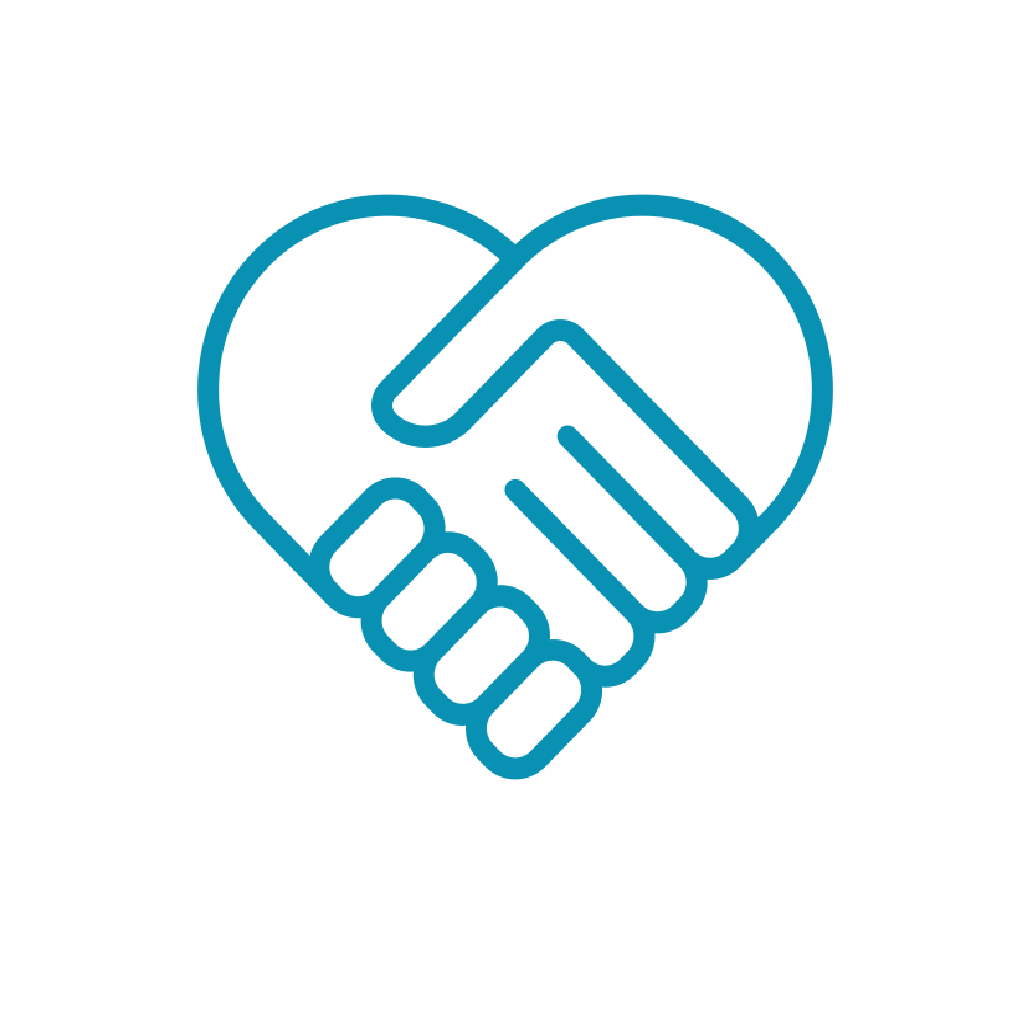
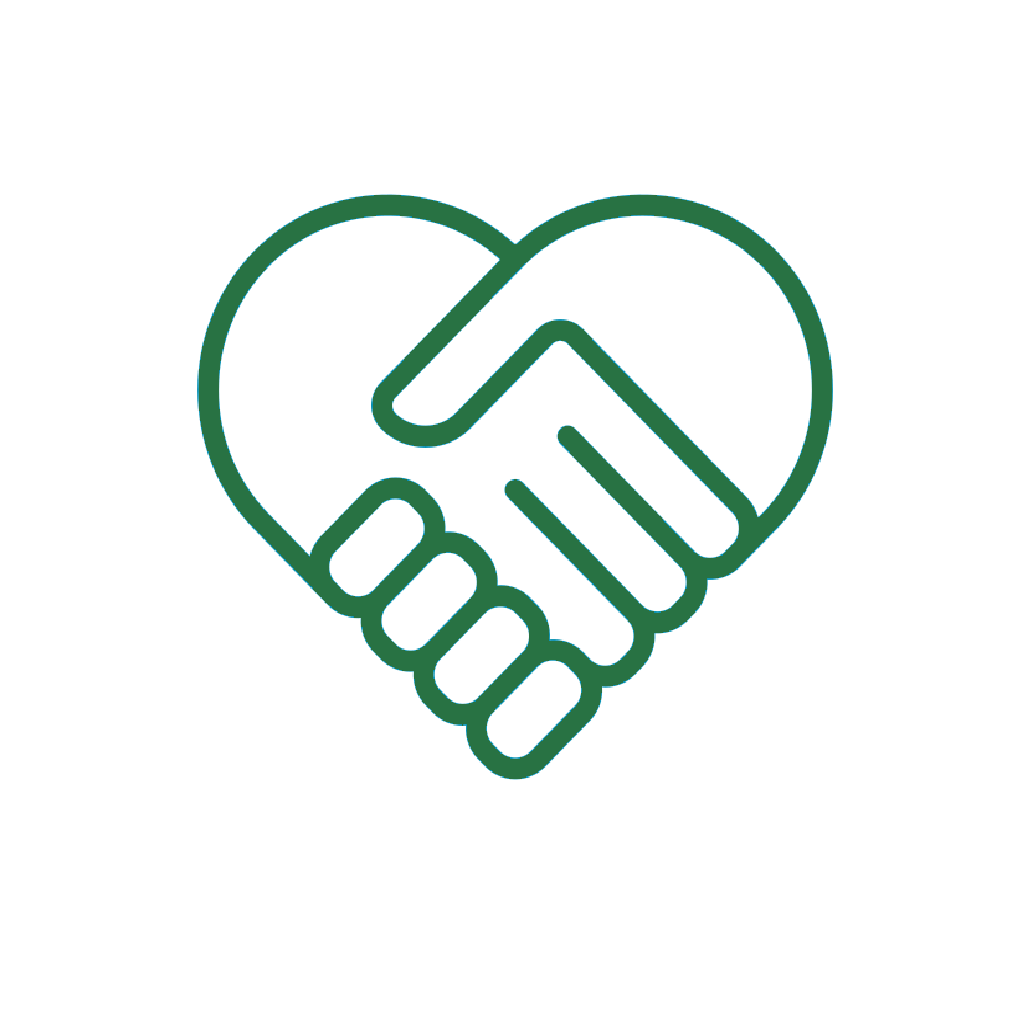
changed colors from blue to green

Changed region(s): [[0.1875, 0.1875, 0.8125, 0.7812], [0.5312, 0.4062, 0.6562, 0.5312]]

diff --git a/components/PatientList.tsx b/components/PatientList.tsx
@@ -1,5 +1,5 @@
-import React from 'react'
-import { FlatList, StyleSheet, View } from 'react-native'
+import React, { useState } from 'react'
+import { ActivityIndicator, FlatList, StyleSheet, View } from 'react-native'
 import { PatientType } from '../constants/account'
 import { COLORS } from '../constants/Colors'
 import usePatientPdfView from '../hooks/usePdfView'
@@ -14,12 +14,16 @@ type PatientListProps = {
 
 function PatientList({ patients, isLoading }: PatientListProps) {
   const generateAndOpenPdf = usePatientPdfView()
+  const [loadingPdfIds, setLoadingPdfIds] = useState<string[]>([])
 
   const handleGenerateAndOpenPdf = async (patientId: string) => {
+    setLoadingPdfIds(prev => [...prev, patientId])
     try {
       await generateAndOpenPdf({ patientId })
     } catch (error) {
       console.error('Error generating PDF:', error)
+    } finally {
+      setLoadingPdfIds(prev => prev.filter(id => id !== patientId))
     }
   }
 
@@ -53,13 +57,18 @@ function PatientList({ patients, isLoading }: PatientListProps) {
                 styles.patientContainer,
                 { borderBottomWidth: patients.length - 1 === index ? 0 : 1 },
               ]}
+              key={item.patientId}
             >
               <MyText>{item.fullName}</MyText>
               <MyTouchableOpacity
                 style={styles.generateBtn}
                 onPress={() => handleGenerateAndOpenPdf(item.patientId)}
               >
-                <MyText style={{ color: 'white' }}>View</MyText>
+                {loadingPdfIds.includes(item.patientId) ? (
+                  <ActivityIndicator size="large" color="white" />
+                ) : (
+                  <MyText style={{ color: 'white' }}>Access</MyText>
+                )}
               </MyTouchableOpacity>
             </View>
           )}
@@ -99,6 +108,7 @@ const styles = StyleSheet.create({
     borderRadius: 12,
     backgroundColor: COLORS.primary[500],
     alignItems: 'center',
+    width: 100,
   },
 })
 

diff --git a/app/patient/(tabs)/profile copy.tsx b/app/patient/(tabs)/profile copy.tsx
@@ -98,8 +98,6 @@ export default function Profile() {
       await generateAndOpenPdf({ patientId })
     } catch (error) {
       console.error('Error generating PDF:', error)
-    } finally {
-      setIsLoadingPdf(false)
     }
   }
 
@@ -139,7 +137,6 @@ export default function Profile() {
                     setShowAccountDeletionModal(true)
                   }
                 }}
-                disabled={isLoadingPdf || isDeleting}
               >
                 <View style={styles.iconContainer}>
                   {tab.icon === 'delete' ? (
@@ -156,12 +153,7 @@ export default function Profile() {
                     />
                   )}
                 </View>
-
-                {isLoadingPdf && tab.name === 'View my data' ? (
-                  <ActivityIndicator size="large" color={COLORS.primary[500]} />
-                ) : (
-                  <MyText size="h4">{tab.name}</MyText>
-                )}
+                <MyText size="h4">{tab.name}</MyText>
               </MyTouchableOpacity>
             ))}
           </View>

diff --git a/app/patient/signUp.tsx b/app/patient/signUp.tsx
@@ -37,26 +37,7 @@ export default function SignUp() {
     handleSubmit,
     reset,
     formState: { errors },
-  } = useForm<PatientProfileType>({
-    defaultValues: {
-      firstName: 'Ron Jacob',
-      lastName: 'Dinero',
-      dateOfBirth: 'March 15, 2003',
-      contact: '09123456789',
-      address: '1234 Street, City, Country',
-      email: 'ronjacobdinero15@gmail.com',
-      password: '12345',
-      passwordConfirm: '12345',
-      age: '20',
-      gender: 'Male',
-      vices: ['Alcohol'],
-      bmiHeightCm: '168',
-      bmiWeightKg: '60',
-      comorbidities: ['Diabetes'],
-      parentalHypertension: 'No',
-      lifestyle: 'Sedentary',
-    },
-  })
+  } = useForm<PatientProfileType>()
   const router = useRouter()
   const [showComplianceModal, setShowComplianceModal] = useState(true)
   const [toggleComplianceCheckbox, setToggleComplianceCheckbox] =

diff --git a/constants/Colors.ts b/constants/Colors.ts
@@ -13,17 +13,16 @@ type ColorsType = {
 
 export const COLORS: ColorsType = {
   primary: {
-    100: '#cee9f0',
-    200: '#9cd3e0',
-    300: '#6bbdd1',
-    400: '#39a7c1',
-    500: '#0891b2', // title / accent
-    600: '#06748e',
-    700: '#05576b',
-    800: '#033a47',
-    900: '#021d24', // text
+    100: '#d4e3d9',
+    200: '#a9c7b4',
+    300: '#7eaa8e',
+    400: '#538e69',
+    500: '#287243',
+    600: '#205b36',
+    700: '#184428',
+    800: '#102e1b',
+    900: '#08170d',
   },
-  // #0074fd
   secondary: {
     100: '#f3f3f3', // inputs
     200: '#e6e6e6', // Health information
@@ -36,6 +35,6 @@ export const COLORS: ColorsType = {
     900: '#171717',
   },
   success: '#0adb70',
-  error: '#d71818',
+  error: '#d9544d',
   warning: '#f5d224',
 }

diff --git a/app/patient/update-profile.tsx b/app/patient/update-profile.tsx
@@ -36,24 +36,7 @@ export default function UpdateProfile() {
     handleSubmit,
     reset,
     formState: { errors },
-  } = useForm<PatientProfileType>({
-    defaultValues: {
-      firstName: '',
-      lastName: '',
-      dateOfBirth: '',
-      contact: '',
-      address: '',
-      email: '',
-      age: '',
-      gender: '',
-      vices: [],
-      bmiHeightCm: '',
-      bmiWeightKg: '',
-      comorbidities: [],
-      parentalHypertension: '',
-      lifestyle: '',
-    },
-  })
+  } = useForm<PatientProfileType>()
   const router = useRouter()
   const { isLoading, setIsLoading, currentUser, setCurrentUser } = useAuth()
 

diff --git a/hooks/usePdfView.tsx b/hooks/usePdfView.tsx
@@ -92,7 +92,8 @@ const htmlTemplate = ({
       }
 
       .box {
-        background-color: #ddd;
+        background-color: #287641;
+        color: #fff;
         padding: 10px;
         border-radius: 5px;
       }
@@ -327,6 +328,8 @@ function usePatientPdfView() {
     const resBpList = await getBpList(patientId)
     const resPatientProfile = await getPatientProfile(patientId)
     const resMedicationList = await getMedicationList(patientId)
+
+    console.log(resPatientProfile.patient)
 
     return {
       patientProfile: resPatientProfile.patient,

diff --git a/components/AddMedicationForm.tsx b/components/AddMedicationForm.tsx
@@ -45,16 +45,7 @@ function AddMedicationForm() {
     control,
     handleSubmit,
     formState: { errors },
-  } = useForm<Medication>({
-    defaultValues: {
-      medicationName: 'Shabu',
-      type: 'tablet',
-      dosage: '50ml',
-      frequency: '',
-      startDate: '',
-      endDate: '',
-    },
-  })
+  } = useForm<Medication>()
   const { currentUser, setRefresh } = useAuth()
   const router = useRouter()
 

diff --git a/app/doctor/update-profile.tsx b/app/doctor/update-profile.tsx
@@ -26,14 +26,7 @@ export default function UpdateProfile() {
     handleSubmit,
     reset,
     formState: { errors },
-  } = useForm<PatientProfileType>({
-    defaultValues: {
-      firstName: '',
-      lastName: '',
-      fullName: '',
-      email: '',
-    },
-  })
+  } = useForm<PatientProfileType>()
   const router = useRouter()
   const { isLoading, setIsLoading, currentUser, setCurrentUser } = useAuth()
 

diff --git a/app/index.tsx b/app/index.tsx
@@ -80,7 +80,9 @@ export default function SignIn() {
           Sign in to PulseAI
         </MyText>
 
-        <MyText>Analyze your pulse rate with AI</MyText>
+        <MyText style={{ textAlign: 'center' }}>
+          Analyze your blood pressure data with AI
+        </MyText>
       </View>
 
       <View style={styles.form}>

diff --git a/app/patient/forgot-password.tsx b/app/patient/forgot-password.tsx
@@ -16,9 +16,7 @@ export default function ForgotPassword() {
     handleSubmit,
     reset,
     formState: { errors },
-  } = useForm<SignInType>({
-    defaultValues: { email: '' },
-  })
+  } = useForm<SignInType>()
   const { currentUser, isLoading, setIsLoading } = useAuth()
   const router = useRouter()
 

diff --git a/components/Dropdown.tsx b/components/Dropdown.tsx
@@ -55,8 +55,8 @@ const styles = StyleSheet.create({
   },
   selectedTextStyle: {
     fontSize: 16,
-    fontWeight: '500',
-    color: COLORS.secondary[500],
+    fontWeight: '400',
+    color: COLORS.secondary[700],
     lineHeight: 25,
   },
 })

diff --git a/app/patient/(tabs)/index.tsx b/app/patient/(tabs)/index.tsx
@@ -392,7 +392,7 @@ const styles = StyleSheet.create({
     lineHeight: 20,
   },
   addBpToday: {
-    backgroundColor: COLORS.success,
+    backgroundColor: COLORS.primary[500],
     padding: 10,
     borderRadius: 15,
     marginTop: 10,
